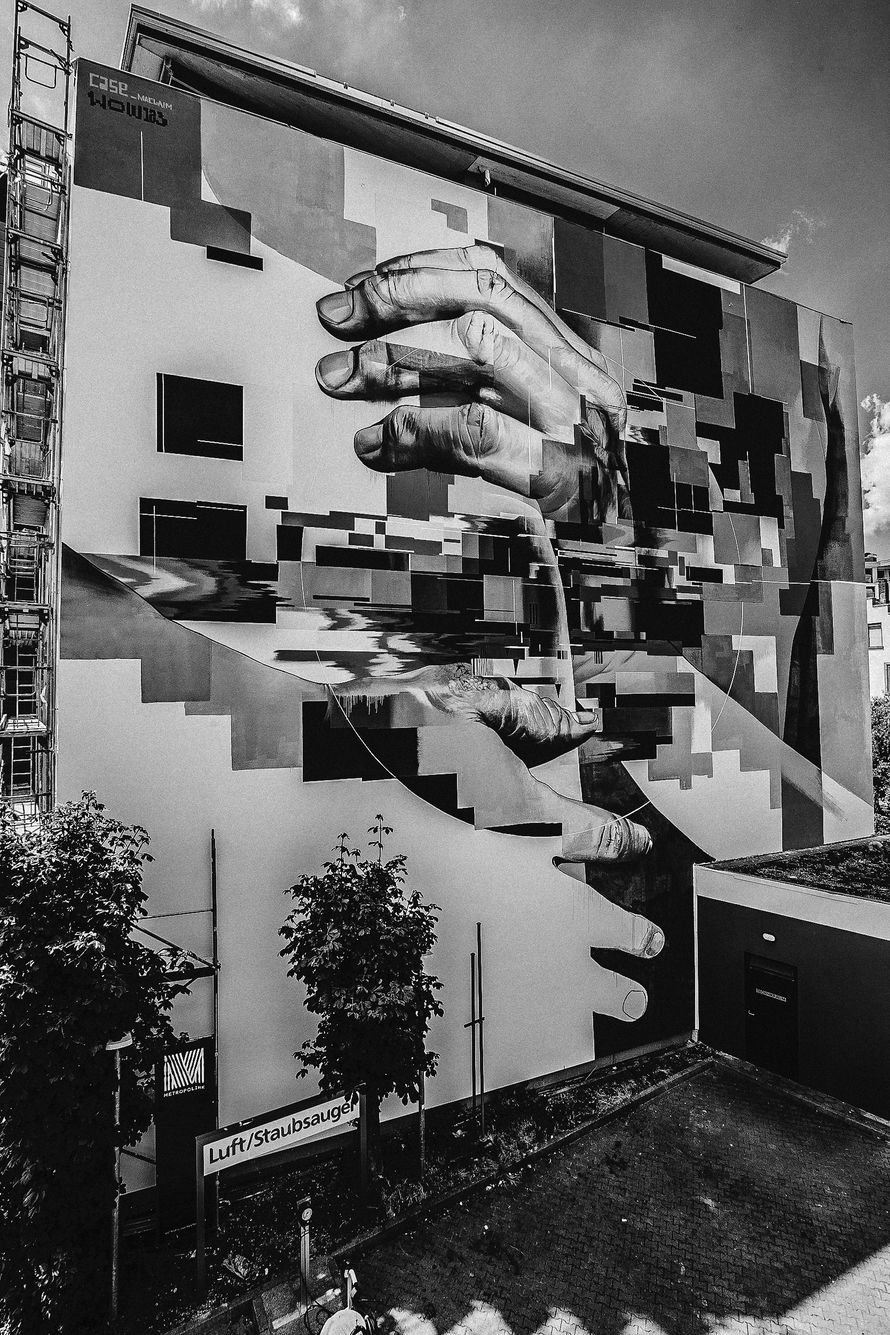
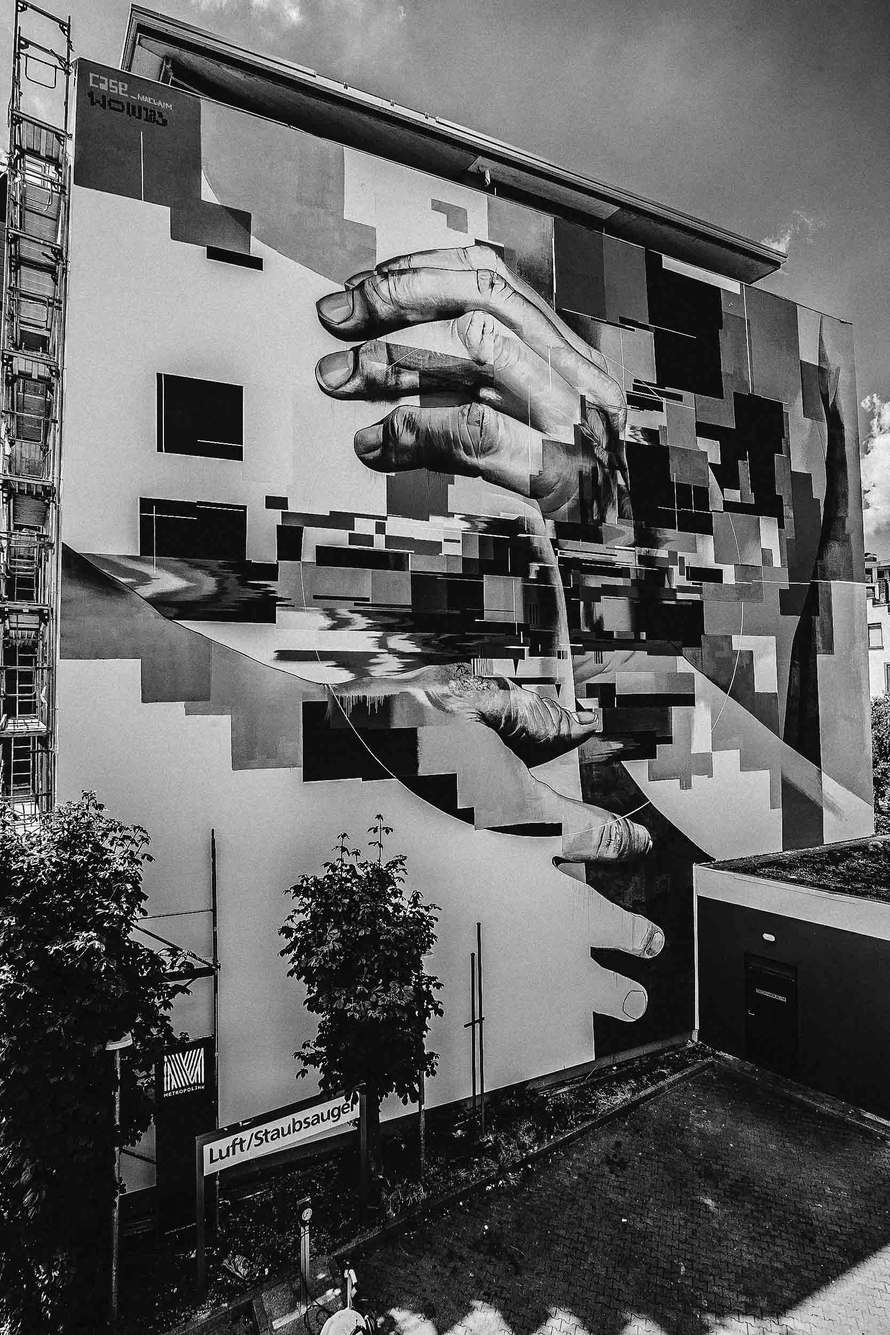
kleinere bilder

diff --git a/static/articles/graffiti.html b/static/articles/graffiti.html
@@ -65,4 +65,4 @@ davon, dass es aufgrund der vielen Variationen nicht langweilig wird. Noch dazu 
 aktuelle Themen, wie die Flüchtlingsdebatte oder Konflikte zwischen Religionen ein. Mit seinem Werk »shut up and pray« beispielsweise,
 möchte er eigentlich nur eins sagen: »Akzeptiert andere Meinungen!«
 </p>
-<img src="./articles/images/graffiti/01.jpg" alt="Markus Genesius Graffiti" class="article__image">
+<img src="./articles/images/graffiti/03.jpg" alt="Markus Genesius Graffiti" class="article__image">
